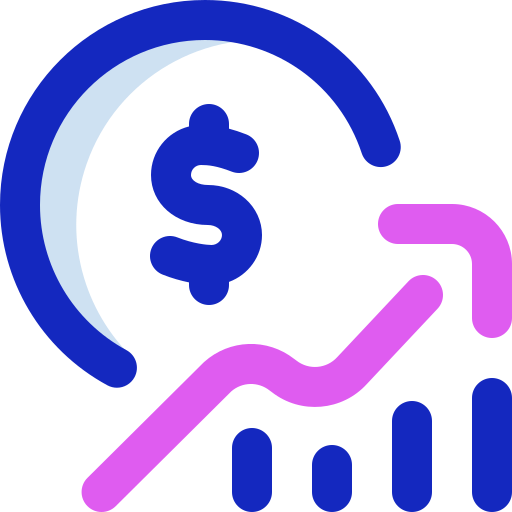
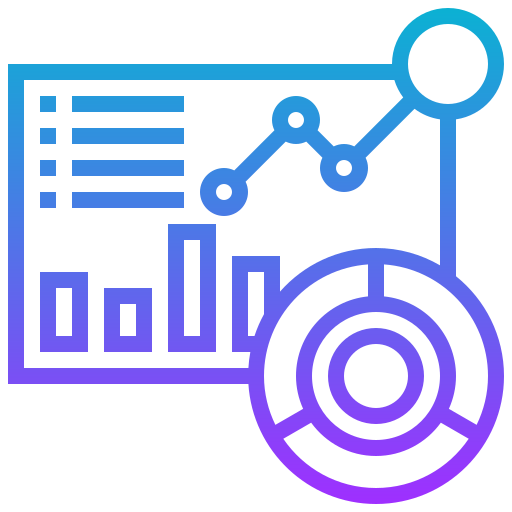
v1.1.2

diff --git a/vamremember-pwa/index.html b/vamremember-pwa/index.html
@@ -15,7 +15,7 @@
 <body>
   <main class="app">
     <header class="app-header">
-      <div><h1 id="pageTitle">⏰ سررسید اقساط</h1><p id="today">در حال دریافت تاریخ…</p></div>
+      <div><h1 id="pageTitle"><img src="assets/book.png" class="img-btn1" alt="" title="" > سررسید اقساط</h1><p id="today">در حال دریافت تاریخ…</p></div>
       <button id="refresh" class="icon-button" type="button" aria-label="بروزرسانی">↻</button>
     </header>
 
@@ -63,7 +63,7 @@
 
 <div class="status-card danger">
 
-<span>🔴</span>
+<span><img src="assets/danger.png" class="img-btn1" alt="" title="" ></span>
 
 <div>
 <h3>عقب افتاده</h3>
@@ -76,7 +76,7 @@
 
 <div class="status-card warning">
 
-<span>⏰</span>
+<span><img src="assets/book.png" class="img-btn1" alt="" title="" ></span>
 
 <div>
 <h3>نزدیک سررسید</h3>
@@ -167,6 +167,7 @@
 
 
 <button class="home-button nav-button " data-page="homePage" data-title="🏠 داشبورد">
+  <img src="images/home.png" alt="داشبورد" class="home-icon">
 <img src="assets/home.png" class="img-btn" alt="" title="صفحه اصلی" >
 </button>
 